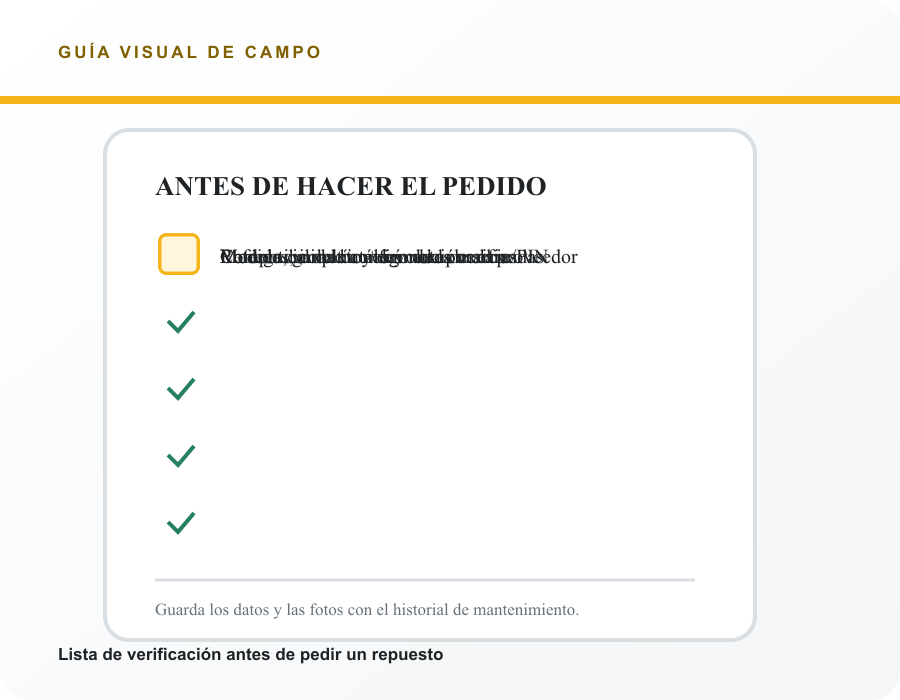
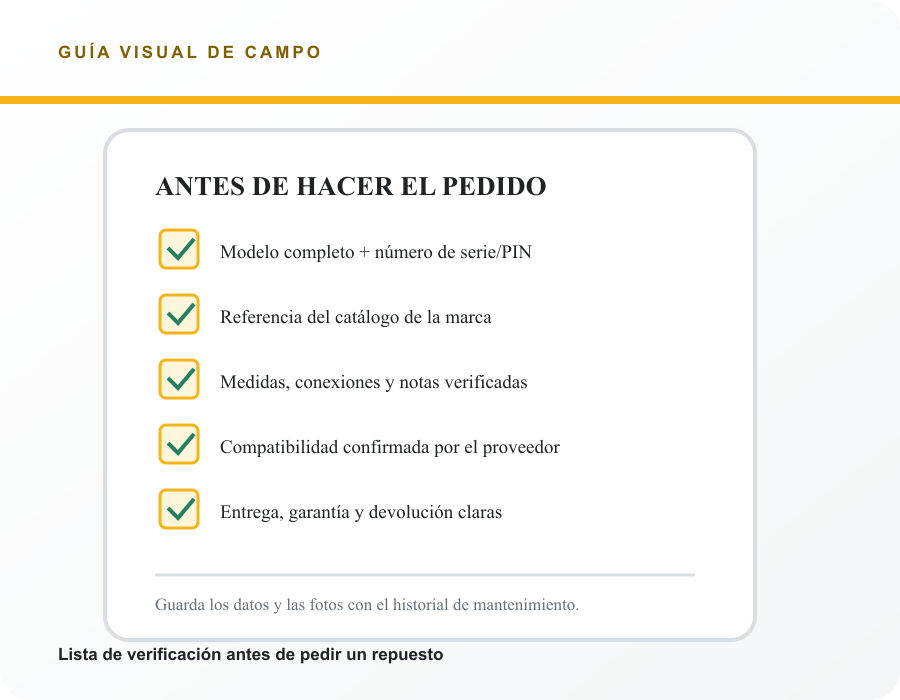
fix(blog): repair checklist infographics and responsive layout

diff --git a/app/globals.css b/app/globals.css
@@ -33,6 +33,7 @@
 .blog-prose p { margin:0 0 1.3rem; white-space:pre-wrap; }
 .blog-prose ul { margin:0 0 1.5rem; padding-left:1.5rem; list-style:disc; }
 .blog-prose li { padding:.2rem 0; }
+.blog-prose li p { margin:0; }
 .blog-prose figure { margin:2rem 0; }
 .blog-prose figure img { width:100%; max-height:620px; border-radius:.85rem; object-fit:contain; background:#f1f5f9; }
 .blog-prose figure.blog-pdf iframe { width:100%; min-height:620px; border:1px solid #d8d8dc; background:#f3f3f4; }
@@ -373,6 +374,7 @@
 .word-editable [data-blog-section-illustration] { width:100%; height:auto; grid-column:2; grid-row:1; align-self:center; border:1px solid #e3e3e6; background:#f4f6f7; }
 .word-editable [data-blog-section-copy] { min-width:0; grid-column:1; grid-row:1; }
 @media(max-width:720px) { .blog-article-intro,.blog-visual-section,.blog-visual-section.image-left { grid-template-columns:minmax(0,1fr); } .blog-article-summary { min-height:0; } .blog-cover { min-height:0; max-height:300px; } .blog-visual-section.image-left figure,.blog-visual-section.image-left .blog-visual-section__copy { grid-column:1; grid-row:auto; } }
+@media(max-width:720px) { .blog-visual-section { gap:1rem; margin:1.25rem 0; padding:1rem; border-radius:14px; } .blog-visual-section figure img { max-height:none; } .blog-visual-section__copy figure img { max-height:260px; } .blog-visual-section figcaption { font-size:.78rem; } }
 @media(max-width:760px) { .word-editable [data-blog-article-section],.word-editable [data-blog-article-section][data-blog-layout="image-left"] { grid-template-columns:minmax(0,1fr); } .word-editable [data-blog-article-section] [data-blog-section-illustration],.word-editable [data-blog-article-section] [data-blog-section-copy] { grid-column:1; grid-row:auto; } }
 
 :root {
